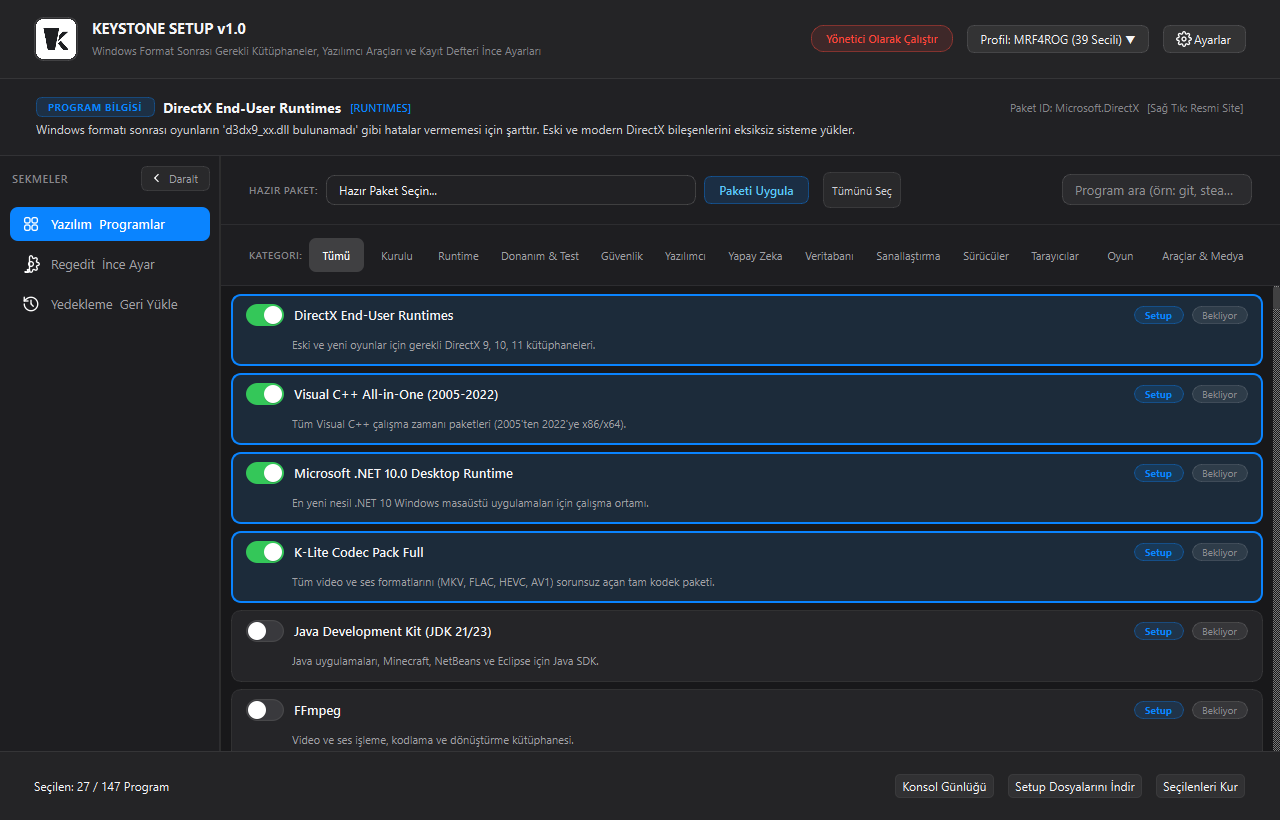
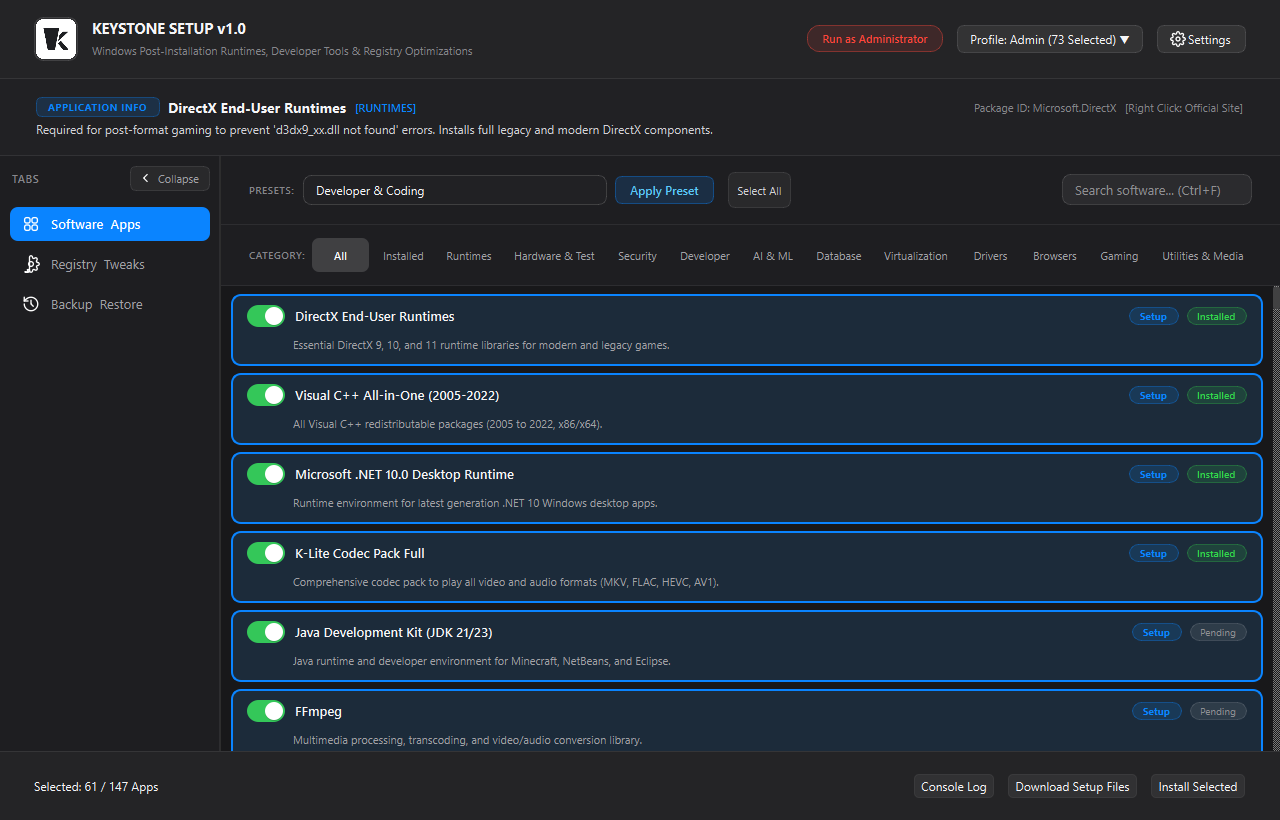
docs: localize README and interface previews to English, update profile name to Admin

diff --git a/locales.py b/locales.py
@@ -507,6 +507,135 @@ BACKUP_EN: Dict[str, Dict[str, str]] = {
     }
 }
 
+# Software Packages Localized Metadata (English)
+PACKAGES_EN: Dict[str, Dict[str, str]] = {
+    "directx": {
+        "name": "DirectX End-User Runtimes",
+        "short_desc": "Essential DirectX 9, 10, and 11 runtime libraries for modern and legacy games.",
+        "full_desc": "Required for post-format gaming to prevent 'd3dx9_xx.dll not found' errors. Installs full legacy and modern DirectX components."
+    },
+    "vcredist_aio": {
+        "name": "Visual C++ All-in-One (2005-2022)",
+        "short_desc": "All Visual C++ redistributable packages (2005 to 2022, x86/x64).",
+        "full_desc": "Prevents missing 'MSVCP140.dll' and 'VCRUNTIME140.dll' runtime errors. Installs all Visual C++ libraries from 2005 through 2022 in a single silent setup."
+    },
+    "dotnet_desktop_10": {
+        "name": "Microsoft .NET 10.0 Desktop Runtime",
+        "short_desc": "Runtime environment for latest generation .NET 10 Windows desktop apps.",
+        "full_desc": "Official Microsoft runtime for modern Windows desktop (WPF and WinForms) applications built with .NET 10 architecture."
+    },
+    "klite_codec": {
+        "name": "K-Lite Codec Pack Full",
+        "short_desc": "Comprehensive codec pack to play all video and audio formats (MKV, FLAC, HEVC, AV1).",
+        "full_desc": "Installs complete collection of multimedia codecs for Windows. Bundled with high-quality MPC-HC player, madVR renderer, and LAV Filters."
+    },
+    "jdk": {
+        "name": "Java Development Kit (JDK 21/23)",
+        "short_desc": "Java runtime and developer environment for Minecraft, NetBeans, and Eclipse.",
+        "full_desc": "Installs official Java Development Kit (OpenJDK/Oracle JDK) environment required for Java applications, Minecraft, and backend software development."
+    },
+    "ffmpeg": {
+        "name": "FFmpeg",
+        "short_desc": "Multimedia processing, transcoding, and video/audio conversion library.",
+        "full_desc": "Universal command-line tool and multimedia libraries for recording, converting, and streaming digital audio and video formats."
+    },
+    "git": {
+        "name": "Git for Windows",
+        "short_desc": "Distributed version control system with Git Bash and Windows Shell integration.",
+        "full_desc": "Industry-standard version control system for tracking source code changes. Includes Git Bash, Git GUI, and Shell context menu tools."
+    },
+    "python": {
+        "name": "Python 3 (Latest)",
+        "short_desc": "Official Python programming language runtime with pip and PATH registration.",
+        "full_desc": "Official Python interpreter with automatic PATH registration, pip package manager, and IDLE development environment."
+    },
+    "vscode": {
+        "name": "Visual Studio Code",
+        "short_desc": "Lightweight and extensible code editor for modern web and cloud applications.",
+        "full_desc": "Microsoft's flagship source-code editor with built-in debugging support, Git commands, syntax highlighting, and rich extension ecosystem."
+    },
+    "vs_community": {
+        "name": "Visual Studio 2022 Community",
+        "short_desc": "Comprehensive IDE for .NET, C++, Windows desktop, and game development.",
+        "full_desc": "Full-featured integrated development environment for building modern Windows desktop applications, C++ games, and enterprise .NET solutions."
+    },
+    "pycharm": {
+        "name": "PyCharm Community",
+        "short_desc": "Python IDE with intelligent code completion and integrated debugging.",
+        "full_desc": "Dedicated Python development environment featuring smart code navigation, inspection, test runner, and debugger."
+    },
+    "anaconda": {
+        "name": "Anaconda Distribution",
+        "short_desc": "Python data science and machine learning platform with conda package manager.",
+        "full_desc": "Comprehensive Python data science distribution bundled with Jupyter, NumPy, Pandas, SciPy, and conda environment management."
+    },
+    "nodejs": {
+        "name": "Node.js (LTS)",
+        "short_desc": "JavaScript runtime environment with npm package manager.",
+        "full_desc": "Cross-platform JavaScript runtime environment for backend development, tooling, and front-end build pipelines."
+    },
+    "powertoys": {
+        "name": "Microsoft PowerToys",
+        "short_desc": "Productivity utilities to tune and streamline Windows workflows.",
+        "full_desc": "Set of Windows system utilities for power users, including FancyZones, PowerToys Run launcher, Text Extractor, and Color Picker."
+    },
+    "windows_terminal": {
+        "name": "Windows Terminal",
+        "short_desc": "Modern, fast, and powerful multi-tab terminal for PowerShell and WSL.",
+        "full_desc": "Official Microsoft multi-tab terminal with GPU acceleration, custom themes, split panes, and support for PowerShell, CMD, and WSL."
+    },
+    "github_desktop": {
+        "name": "GitHub Desktop",
+        "short_desc": "Seamless Git and GitHub graphical workflow client.",
+        "full_desc": "Simple, visual collaboration client for Git repositories with branch visualization and PR review workflows."
+    },
+    "sublime_text": {
+        "name": "Sublime Text 4",
+        "short_desc": "Sophisticated text editor for code, markup, and prose with lightning performance.",
+        "full_desc": "Blazing fast text editor with GPU rendering, supercharged tab management, and extensive package ecosystem."
+    },
+    "postman": {
+        "name": "Postman",
+        "short_desc": "API development, testing, and collaboration platform.",
+        "full_desc": "Complete API platform for building, designing, testing, and automating REST, GraphQL, and WebSocket APIs."
+    },
+    "firefox": {
+        "name": "Mozilla Firefox",
+        "short_desc": "Fast, private, and open-source web browser with tracking protection.",
+        "full_desc": "Privacy-focused web browser featuring enhanced tracking protection, multi-account containers, and comprehensive extension support."
+    },
+    "7zip": {
+        "name": "7-Zip",
+        "short_desc": "High-compression file archiver supporting 7z, ZIP, RAR, TAR, and GZ formats.",
+        "full_desc": "High-efficiency open-source file archiver with industry-leading compression ratios and Windows Explorer shell integration."
+    },
+    "winrar": {
+        "name": "WinRAR",
+        "short_desc": "Industry standard RAR and ZIP file compression and archive manager.",
+        "full_desc": "Powerful archive manager that can create, manage, and unpack RAR, ZIP, and other compressed archive files."
+    },
+    "discord": {
+        "name": "Discord",
+        "short_desc": "Voice, video, and text communication platform for communities and gamers.",
+        "full_desc": "Popular voice and text chat platform featuring low-latency voice channels, screen sharing, and direct messaging."
+    },
+    "obsidian": {
+        "name": "Obsidian",
+        "short_desc": "Extensible Markdown-based knowledge base and note-taking application.",
+        "full_desc": "Privacy-first, local Markdown note-taking tool with graph view, bidirectional linking, and vast plugin library."
+    },
+    "docker": {
+        "name": "Docker Desktop",
+        "short_desc": "Containerization platform to build, share, and run containerized applications.",
+        "full_desc": "Complete developer toolset for container creation, deployment, and management using Docker and Kubernetes on Windows."
+    },
+    "dbeaver": {
+        "name": "DBeaver Community",
+        "short_desc": "Universal multi-database management tool and SQL client.",
+        "full_desc": "Universal graphical database management tool supporting PostgreSQL, MySQL, SQLite, Oracle, SQL Server, and more."
+    }
+}
+
 
 def get_language() -> str:
     """Returns the currently active language code ('tr' or 'en')."""
@@ -540,6 +669,16 @@ def get_category_name(cat_id: str, is_tweak: bool = False, lang: Optional[str] =
     else:
         mapping = CATEGORIES_TRANSLATIONS.get(cat_id, {})
     return mapping.get(l, mapping.get("tr", cat_id))
+
+
+def get_package_meta(pkg: dict, lang: Optional[str] = None) -> Tuple[str, str, str]:
+    """Returns (name, short_desc, full_desc) for a package in the specified or active language."""
+    l = lang or _CURRENT_LANG
+    p_id = pkg.get("id", "")
+    if l == "en" and p_id in PACKAGES_EN:
+        en = PACKAGES_EN[p_id]
+        return en.get("name", pkg.get("name", "")), en.get("short_desc", pkg.get("short_desc", "")), en.get("full_desc", pkg.get("full_desc", ""))
+    return pkg.get("name", ""), pkg.get("short_desc", ""), pkg.get("full_desc", "")
 
 
 def get_tweak_meta(tweak: dict, lang: Optional[str] = None) -> Tuple[str, str, str]:

diff --git a/generate_screenshots.py b/generate_screenshots.py
@@ -1,0 +1,109 @@
+"""
+Generates English preview screenshots for Keystone documentation.
+Captures:
+- assets/screenshots/preview_apps.png (Dark Mode)
+- assets/screenshots/preview_tweaks.png (Dark Mode)
+- assets/screenshots/preview_backup.png (Dark Mode)
+- assets/screenshots/preview_light.png (Light Mode)
+"""
+
+import sys
+import os
+import time
+from PyQt6.QtWidgets import QApplication
+from PyQt6.QtCore import Qt, QTimer
+from PyQt6.QtGui import QFontDatabase, QIcon
+
+from utils import resource_path
+from styles import get_stylesheet
+from ui_main import MainWindow
+from locales import set_language
+from data.packages import PACKAGES
+from data.tweaks import TWEAKS
+from backup_manager import BACKUP_ITEMS
+
+
+def capture_all():
+    set_language("en")
+
+    app = QApplication.instance()
+    if not app:
+        app = QApplication(sys.argv)
+
+    # Fonts
+    f1 = resource_path(os.path.join("assets", "fonts", "PressStart2P-Regular.ttf"))
+    f2 = resource_path(os.path.join("assets", "fonts", "PixelifySans.ttf"))
+    if os.path.exists(f1):
+        QFontDatabase.addApplicationFont(f1)
+    if os.path.exists(f2):
+        QFontDatabase.addApplicationFont(f2)
+
+    app.setStyleSheet(get_stylesheet("dark"))
+
+    win = MainWindow()
+    win.resize(1280, 820)
+    win.show()
+    app.processEvents()
+    time.sleep(0.5)
+    app.processEvents()
+
+    out_dir = os.path.join("assets", "screenshots")
+    os.makedirs(out_dir, exist_ok=True)
+
+    # 1. Preview Apps (Dark)
+    print("Capturing preview_apps.png...")
+    win._set_theme("dark")
+    win._switch_main_mode("apps")
+    app.processEvents()
+    time.sleep(1.0)
+    app.processEvents()
+    if PACKAGES:
+        win._update_app_hud(PACKAGES[0])
+    app.processEvents()
+    time.sleep(0.2)
+    app.processEvents()
+    pix_apps = win.grab()
+    pix_apps.save(os.path.join(out_dir, "preview_apps.png"), "PNG")
+
+    # 2. Preview Tweaks (Dark)
+    print("Capturing preview_tweaks.png...")
+    win._switch_main_mode("tweaks")
+    if TWEAKS:
+        win._update_tweak_hud(TWEAKS[0])
+    app.processEvents()
+    time.sleep(0.4)
+    app.processEvents()
+    pix_tweaks = win.grab()
+    pix_tweaks.save(os.path.join(out_dir, "preview_tweaks.png"), "PNG")
+
+    # 3. Preview Backup (Dark)
+    print("Capturing preview_backup.png...")
+    win._switch_main_mode("backup")
+    if BACKUP_ITEMS:
+        win._on_backup_hovered(BACKUP_ITEMS[0])
+    app.processEvents()
+    time.sleep(0.4)
+    app.processEvents()
+    pix_backup = win.grab()
+    pix_backup.save(os.path.join(out_dir, "preview_backup.png"), "PNG")
+
+    # 4. Preview Light (Light Mode Apps)
+    print("Capturing preview_light.png...")
+    win._set_theme("light")
+    win._switch_main_mode("apps")
+    if PACKAGES:
+        win._update_app_hud(PACKAGES[0])
+    app.processEvents()
+    time.sleep(0.4)
+    app.processEvents()
+    pix_light = win.grab()
+    pix_light.save(os.path.join(out_dir, "preview_light.png"), "PNG")
+
+    # Revert to dark theme for user
+    win._set_theme("dark")
+    win.close()
+    print("All screenshots captured successfully!")
+
+
+if __name__ == "__main__":
+    capture_all()

diff --git a/ui_main.py b/ui_main.py
@@ -34,7 +34,7 @@ from styles import get_stylesheet, get_theme_accent
 from utils import resource_path
 from locales import (
     t, get_language, set_language, get_category_name,
-    get_tweak_meta, get_backup_meta, STRINGS
+    get_tweak_meta, get_backup_meta, get_package_meta, STRINGS
 )
 
 
@@ -693,7 +693,7 @@ class MainWindow(QMainWindow):
         row = QHBoxLayout()
         row.setSpacing(12)
 
-        self.counter_lbl = QLabel("Seçilen: 0 Paket")
+        self.counter_lbl = QLabel(f"{t('selected_label')}: 0 {t('programs_unit')}")
         self.counter_lbl.setObjectName("selectedCountLabel")
         row.addWidget(self.counter_lbl)
 
@@ -862,6 +862,7 @@ class MainWindow(QMainWindow):
 
     def _update_app_hud(self, pkg: dict):
         self.current_pkg = pkg
+        name, short_desc, full_desc = get_package_meta(pkg)
         self.inspect_badge.setProperty("class", "")
         self.inspect_cat_lbl.setProperty("class", "")
         self.inspect_hint_lbl.setProperty("class", "")
@@ -869,9 +870,9 @@ class MainWindow(QMainWindow):
         self.inspect_cat_lbl.setStyleSheet("")
         self.inspect_hint_lbl.setStyleSheet("")
         self.inspect_badge.setText(t("hud_app_badge"))
-        self.inspect_title.setText(pkg["name"])
+        self.inspect_title.setText(name)
         self.inspect_cat_lbl.setText(f"[{get_category_name(pkg['category']).upper()}]")
-        self.inspect_desc.setText(pkg["full_desc"])
+        self.inspect_desc.setText(full_desc)
         self.inspect_source_lbl.setText(f"{t('hud_package_id')}: {pkg['winget_id']}")
         self.inspect_hint_lbl.setText(t("hud_hint_website"))
         for w in (self.inspect_badge, self.inspect_cat_lbl, self.inspect_hint_lbl):
@@ -1263,9 +1264,9 @@ class MainWindow(QMainWindow):
         self.btn_op_restore.style().polish(self.btn_op_restore)
 
         if mode == "backup":
-            self.btn_action.setText("Seçilenleri Klasöre Yedekle")
+            self.btn_action.setText(t("btn_start_backup"))
         else:
-            self.btn_action.setText("Yedekten Sisteme Geri Yükle")
+            self.btn_action.setText(t("btn_start_restore"))
 
         self._refresh_backup_statuses()
         self._update_counter()

diff --git a/ui_card.py b/ui_card.py
@@ -7,7 +7,7 @@ from PyQt6.QtWidgets import (
     QFrame, QHBoxLayout, QVBoxLayout, QLabel, QCheckBox, QSizePolicy
 )
 from PyQt6.QtCore import Qt, pyqtSignal, QEvent
-from locales import t
+from locales import t, get_package_meta
 
 
 class PackageCard(QFrame):
@@ -42,7 +42,8 @@ class PackageCard(QFrame):
         top_row.setContentsMargins(0, 0, 0, 0)
         top_row.setSpacing(8)
 
-        self.checkbox = QCheckBox(self.pkg["name"].replace("&", "&&"))
+        name, short_desc, _ = get_package_meta(self.pkg)
+        self.checkbox = QCheckBox(name.replace("&", "&&"))
         self.checkbox.setCursor(Qt.CursorShape.PointingHandCursor)
         self.checkbox.setChecked(False)
         self.checkbox.toggled.connect(self._on_toggled)
@@ -77,7 +78,7 @@ class PackageCard(QFrame):
         desc_container.setContentsMargins(46, 0, 0, 0)
         desc_container.setSpacing(0)
 
-        self.desc_label = QLabel(self.pkg["short_desc"])
+        self.desc_label = QLabel(short_desc)
         self.desc_label.setProperty("class", "pkgDesc")
         self.desc_label.setWordWrap(True)
         desc_container.addWidget(self.desc_label)
@@ -166,6 +167,9 @@ class PackageCard(QFrame):
         self.status_badge.style().polish(self.status_badge)
 
     def retranslate_ui(self):
+        name, short_desc, _ = get_package_meta(self.pkg)
+        self.checkbox.setText(name.replace("&", "&&"))
+        self.desc_label.setText(short_desc)
         is_port = bool(self.pkg.get("portable", False))
         if hasattr(self, "type_badge"):
             self.type_badge.setToolTip(t("card_portable_tip") if is_port else t("card_setup_tip"))

diff --git a/README.md b/README.md
@@ -141,17 +141,7 @@ The compiled binary will be placed at `dist/Keystone.exe` and copied to the root
 
 ---
 
-## Türkçe Açıklama ve Özellikler
-
-Keystone, Windows formatı sonrasında bilgisayarın baştan kurulum sürecini otomatikleştiren profesyonel bir masaüstü aracıdır.
-
-- **Yazılım Kurulumu**: DirectX, Visual C++, .NET, tarayıcılar, geliştirici SDK'ları ve popüler yazılımları resmi kaynaklardan sessizce kurar.
-- **Kayıt Defteri (Regedit) Ayarları**: Windows 11 klasik sağ tık menüsü, görev çubuğu 'Görevi Sonlandır', telemetri engelleme ve hızlandırma ayarlarını sistem durumuna göre otomatik algılar ve uygular.
-- **Yedekleme & Geri Yükleme**: Format öncesi Wi-Fi şifrelerini, tarayıcı yer imlerini, VS Code konfigürasyonlarını, SSH anahtarlarını, kurulu program listesini ve aktif kayıt defteri ayarlarını tek tıkla depolar ve format sonrasında eksiksiz geri yükler.
-- **Yönetici Hakları**: İlgili sistem kütüphaneleri ve Windows servisleri için UAC haklarını şeffaf ve güvenli bir şekilde yönetir.
-
----
-
 ## License
 
 This project is licensed under the [MIT License](LICENSE).
+
